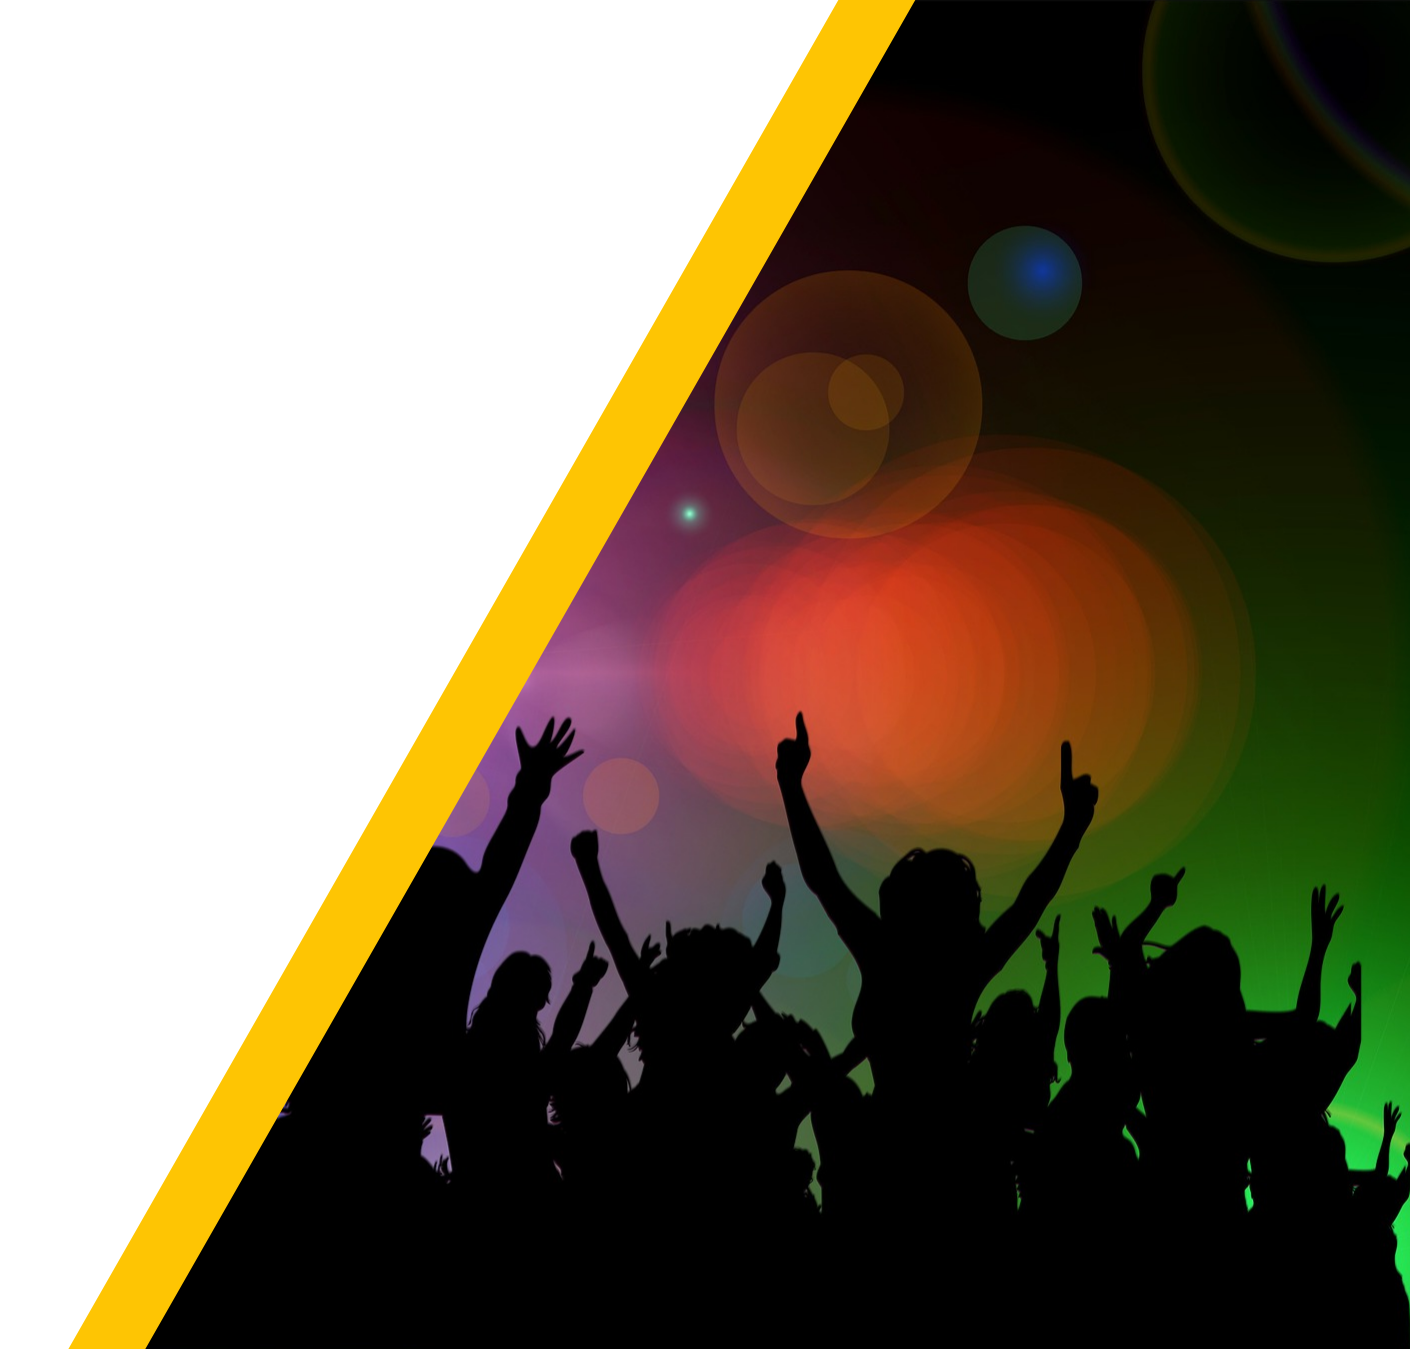
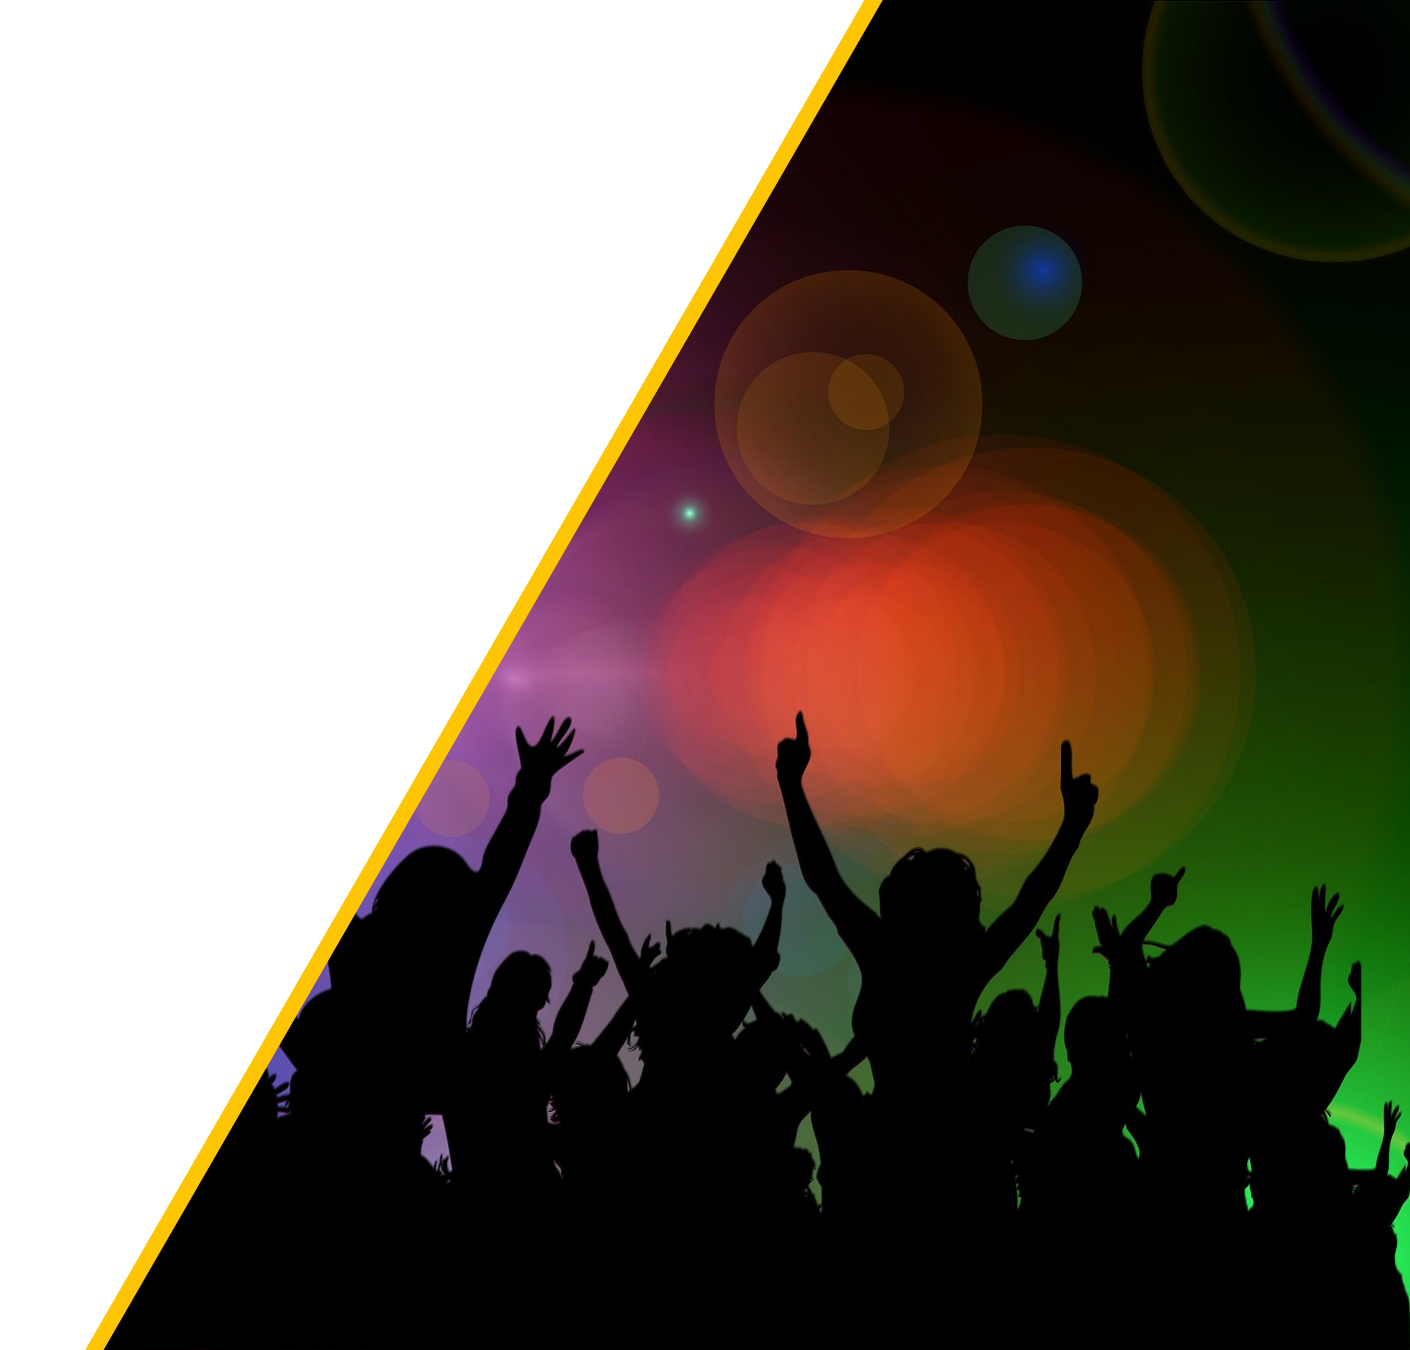
updated background

diff --git a/presentation.css b/presentation.css
@@ -111,7 +111,7 @@ li {counter-increment: li}
 
 html body{font-family:Gotham SSm A,Gotham SSm B,Helvetica,Arial,sans-serif;font-weight:300}
 .background {
-    background-position: top left;
+    background-position: top right;
     background-size: 90%;
 }
 .center.middle h1{
